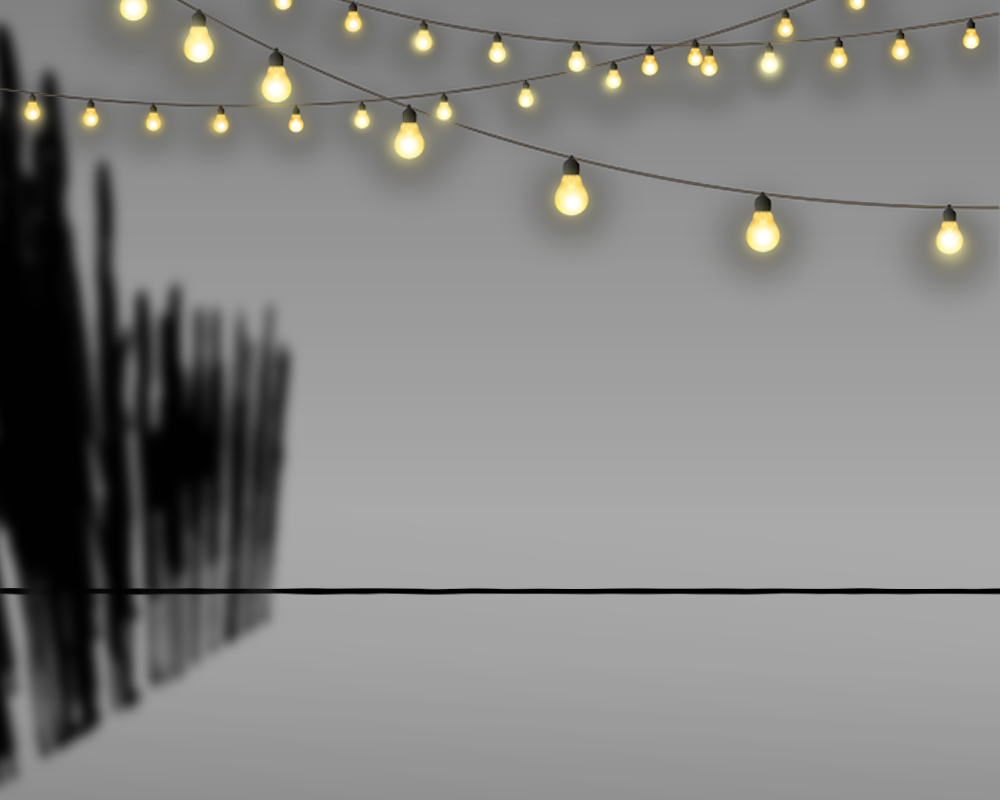
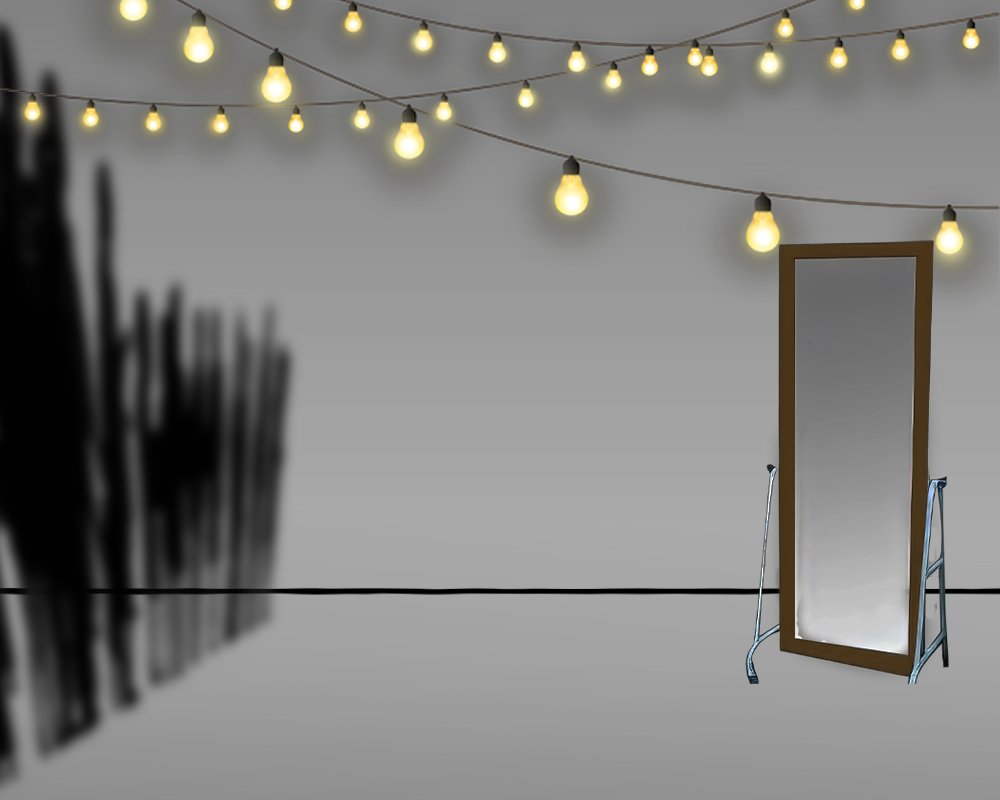
jkzdlghjdkl;h

Changed region(s): [[0.744, 0.2812, 0.961, 0.875]]

diff --git a/rpnovel_engine.py b/rpnovel_engine.py
@@ -101,7 +101,11 @@ class RPGNovel():
                             if wishroom.special_flags["locked"] not in [i.id for i in player.inventory]:
                                 response["text"] = f'Туда нельзя пройти, дверь заперта! Может, стоит поискать ключ?.. его айди говорит.. {wishroom.special_flags["locked"]}'
                                 return response
-                            
+                        if "changetheworld" in wishroom.special_flags.keys():
+                            player.current_world = World.from_dict(open(f'assets/worlds/{wishroom.special_flags["changetheworld"]}.wld').read())
+                            player.location = "start"
+                            response["text"] = player.current_world.get_location(player.location).description
+                            return response
                         player.location = current_room.exits[payload]
                         player.visited_locations.add(player.location)
                         response["text"] = player.current_world.get_location(player.location).description #f"Ты перешел в {player.location}"
@@ -115,6 +119,14 @@ class RPGNovel():
                             if current_room.special_flags["uicross_shatter"] == 5:
                                 response["text"] = "..?????"
                             current_room.special_flags["uicross_shatter"] +=1
+                case "tp":
+                    try:
+                        wishroom = player.current_world.get_location(payload)
+                        player.location = payload
+                        response["text"] = wishroom.description
+                    except:
+                        response["text"] = f"Ошибка в телепортации к {payload}, может такйо комнаты нет?"
+
                 case "exit":
                     print("Пока!")
                     raise SystemExit
@@ -261,9 +273,11 @@ class RPGNovel():
                     enemy.give(player)
                     response["text"] += f"\n{enemy.name} дал тебе предмет!"
                 if "[run]" in enemy_reply:
+                    current_room.enemies.remove(enemy) # Убираем труп из комнаты
+                    player.inventory.extend(enemy.inventory)
+                    response["text"] += "\nВраг убежал...\nВЫ ПОБЕДИЛИ!"
                     self.state = "EXPLORING"
                     self.current_enemy = None
-                    response["text"] += "\nВраг убежал! Бой окончен."
                 response["extra_data"] = {"player_hp": player.gethp(), "enemy_hp": enemy.gethp()}
             match action:
                 case "drop":

diff --git a/main.py b/main.py
@@ -117,12 +117,26 @@ start_time = 0
 
 def uicross_shatter():
     def animate():
+        btn_n.enabled = False
+        btn_s.enabled = False
+        btn_w.enabled = False
+        btn_e.enabled = False
         image_ui_cross.shake(5,5300)
         image_ui_cross.translate(-50,-100,300)
         pygame.time.wait(300)
         image_ui_cross.translate(-300,1000,1000)
         pygame.time.wait(1000)
         image_malex.translate(1000,0,3000)
+        pygame.time.wait(3000)
+        res = novel.handle("tp","intro19")
+        display_text.set_text(res["text"])
+        btn_n.enabled = True
+        btn_s.enabled = True
+        btn_w.enabled = True
+        btn_e.enabled = True
+        image_ui_cross.translate(0,0,0)
+        image_bg.img = bgs[novel.player.location] if novel.player.location in bgs.keys() else imgfile_bg
+
     threading.Thread(target=animate,daemon=True).start()
 
 ######## TODO: это очень захардкоденая хрень сейчас. что я бы сделал в будущем, сделал бы свой язык составления анимаций по кейфреймам, чтобы потом хранить их в файле
@@ -424,7 +438,7 @@ def fight(item_idx=None, name=None, text=""):
     global weapon_img
     try:
         if item_idx != None:
-            file = pygame.image.load(f'assets/images/items/{novel.handle("get_weapon_id",item_idx)["text"]}.png')
+            file = assets.get_image("items",novel.handle("get_weapon_id",item_idx)["text"])
             weapon_img = Image(300-file.get_width()//2, 270-file.get_height()//2, file) # факэсс я не могу придумать как это реализовать нормально пусть пока так
         else:
             weapon_img = Image(1000, 0, pygame.image.load(f'assets/images/sprites/main.png'))